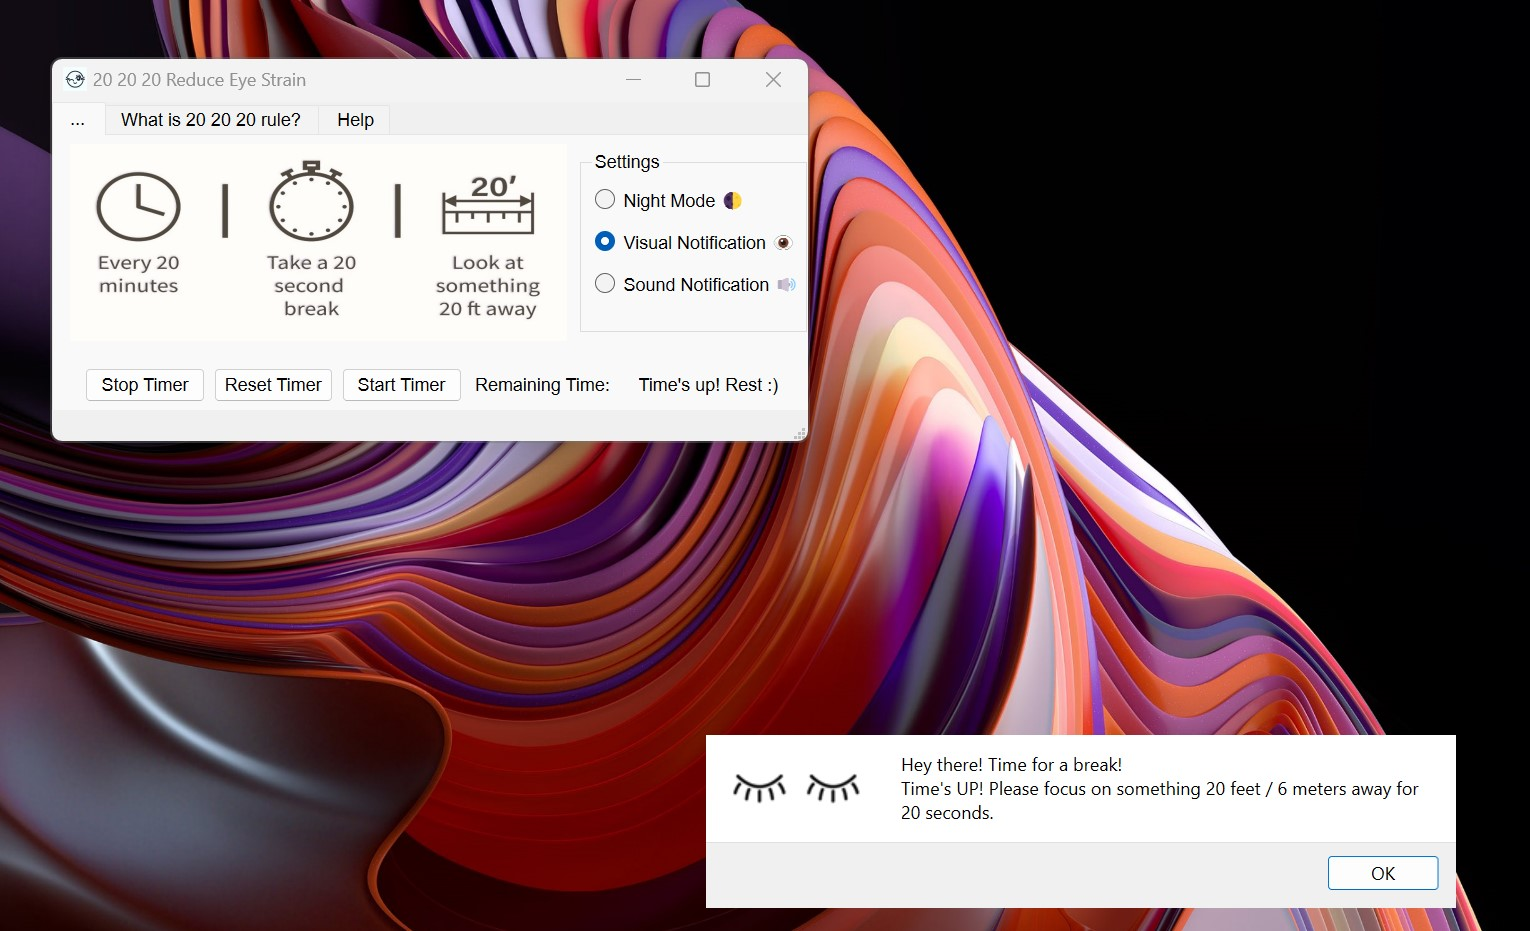
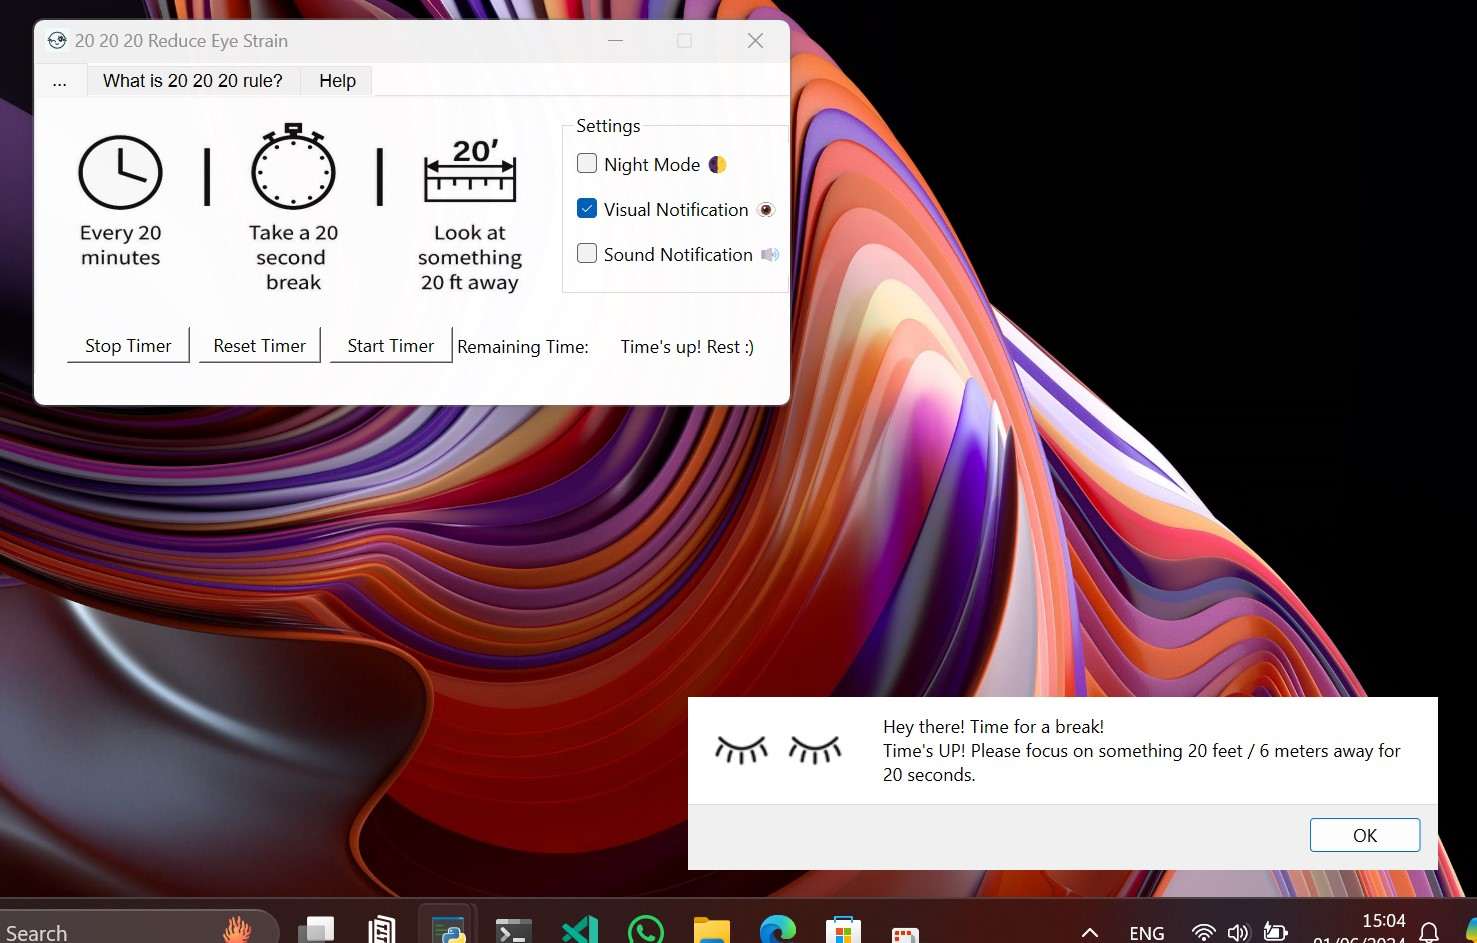
[Feat] sound notification opened, 20min added, UI fixes

diff --git a/src/main.py b/src/main.py
@@ -7,6 +7,8 @@ from PyQt6.QtWidgets import QMainWindow, QMessageBox, QApplication
 from PyQt6.QtCore import QTimer, QTime, Qt
 from PyQt6.QtGui import QPixmap
 
+from playsound import playsound
+
 class MainWindow(QMainWindow):
     def __init__(self):
         super().__init__()
@@ -19,7 +21,7 @@ class MainWindow(QMainWindow):
 
         self.timer = QTimer()
         self.timer.timeout.connect(self.update_timer)
-        self.remaining_time = QTime(0, 0, 1)  # 20 minutes
+        self.remaining_time = QTime(0, 20, 0)  # 20 minutes
 
     def mode(self):
         if self.night_mode.isChecked():
@@ -37,12 +39,13 @@ class MainWindow(QMainWindow):
         if self.remaining_time == QTime(0, 0, 0):
             self.timer.stop()
             self.timer_label.setText("Time's up! Rest :)")
-
+            if self.sound_button.isChecked():
+                self.play_sound()
             if self.visual_button.isChecked():
                 self.show_popup()
-            
-            #if self.sound_button.isChecked():
-                #self.play_sound() # todo fix this
+    
+    def play_sound(self):
+        playsound("./sound/notification.mp3")
     
     def show_popup(self):
         # Get the screen resolution
